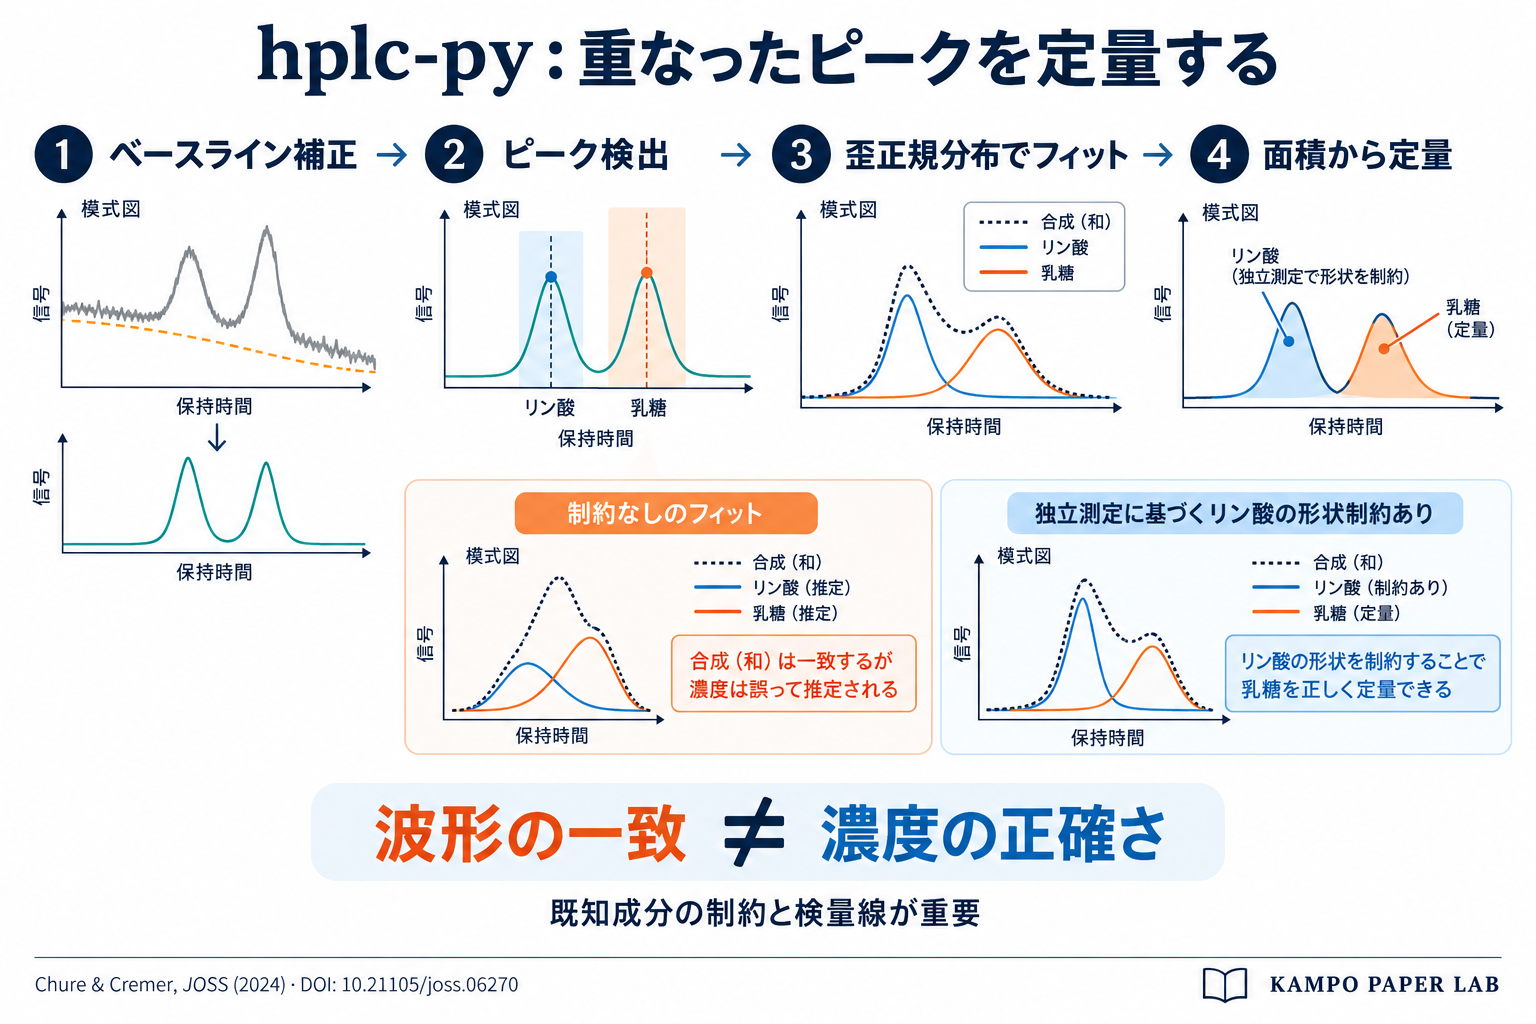
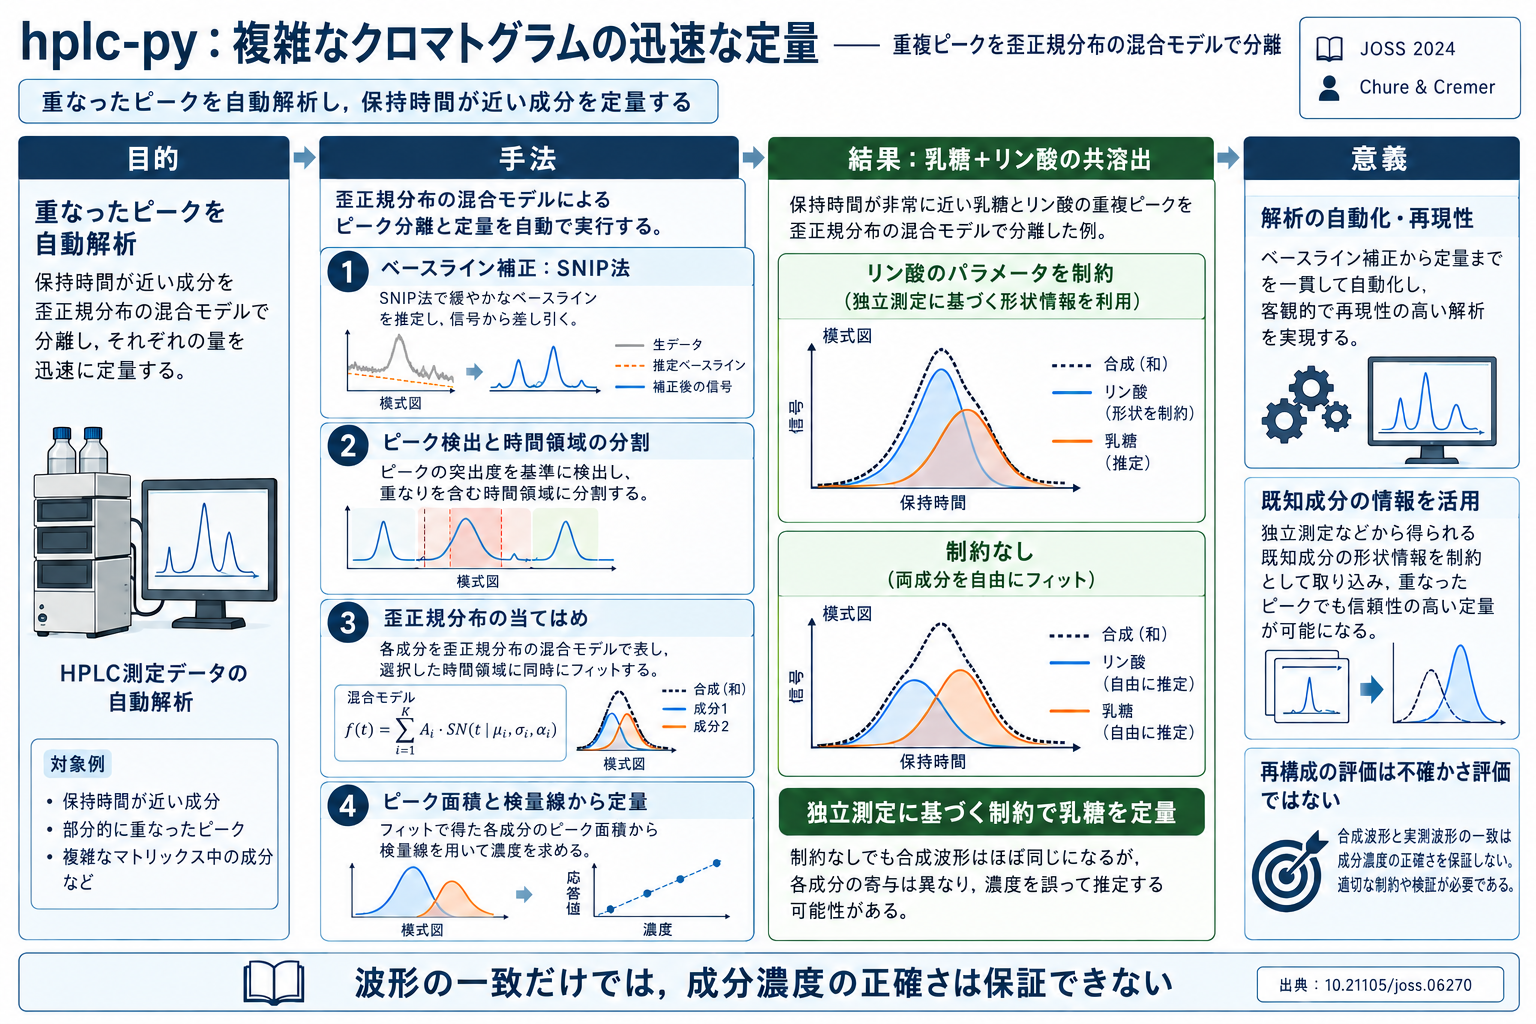
Match hplc-py infographic to existing paper poster style

diff --git a/DEVELOPMENT.md b/DEVELOPMENT.md
@@ -21,3 +21,11 @@
 - https://joss.theoj.org/about （IFの確定値を確認できず）
 - https://api.openalex.org/works/https://doi.org/10.21105/joss.06270 （被引用数）
 - https://ai.google.dev/gemini-api/docs/latest-model?hl=en （Gemini 3.8 Flash、CLI一覧とも照合）
+
+## 2026-10-01 hplc-pyヒーローの既存スタイルへの統一
+
+- ユーザー指定により、EURACHEMの3規則・実験計画法の既存画像をスタイル見本に使用。紺・深緑、細い枠、目的→手法→結果→意義の4列に揃える。
+- 組み込み画像生成のみを使用。前回は利用上限で生成できず、今回再試行した。APIへ切り替えていない。
+- 初回生成結果に「微分などを用いてピークを検出」とあったため不採用。原文に合わせ「ピークの突出度を基準に検出し、重なりを含む時間領域に分割する。」へ限定修正。
+- プロンプト: runbook/hplc-py-hero-restyle-prompt.txt。論文本文や元図の内容は変更しない。
+- 修正版を目視確認して採用。生成元とdocs側の画像一致、134ページのビルド成功を確認。既存の本文・原図・メモ機能は変更なし。
